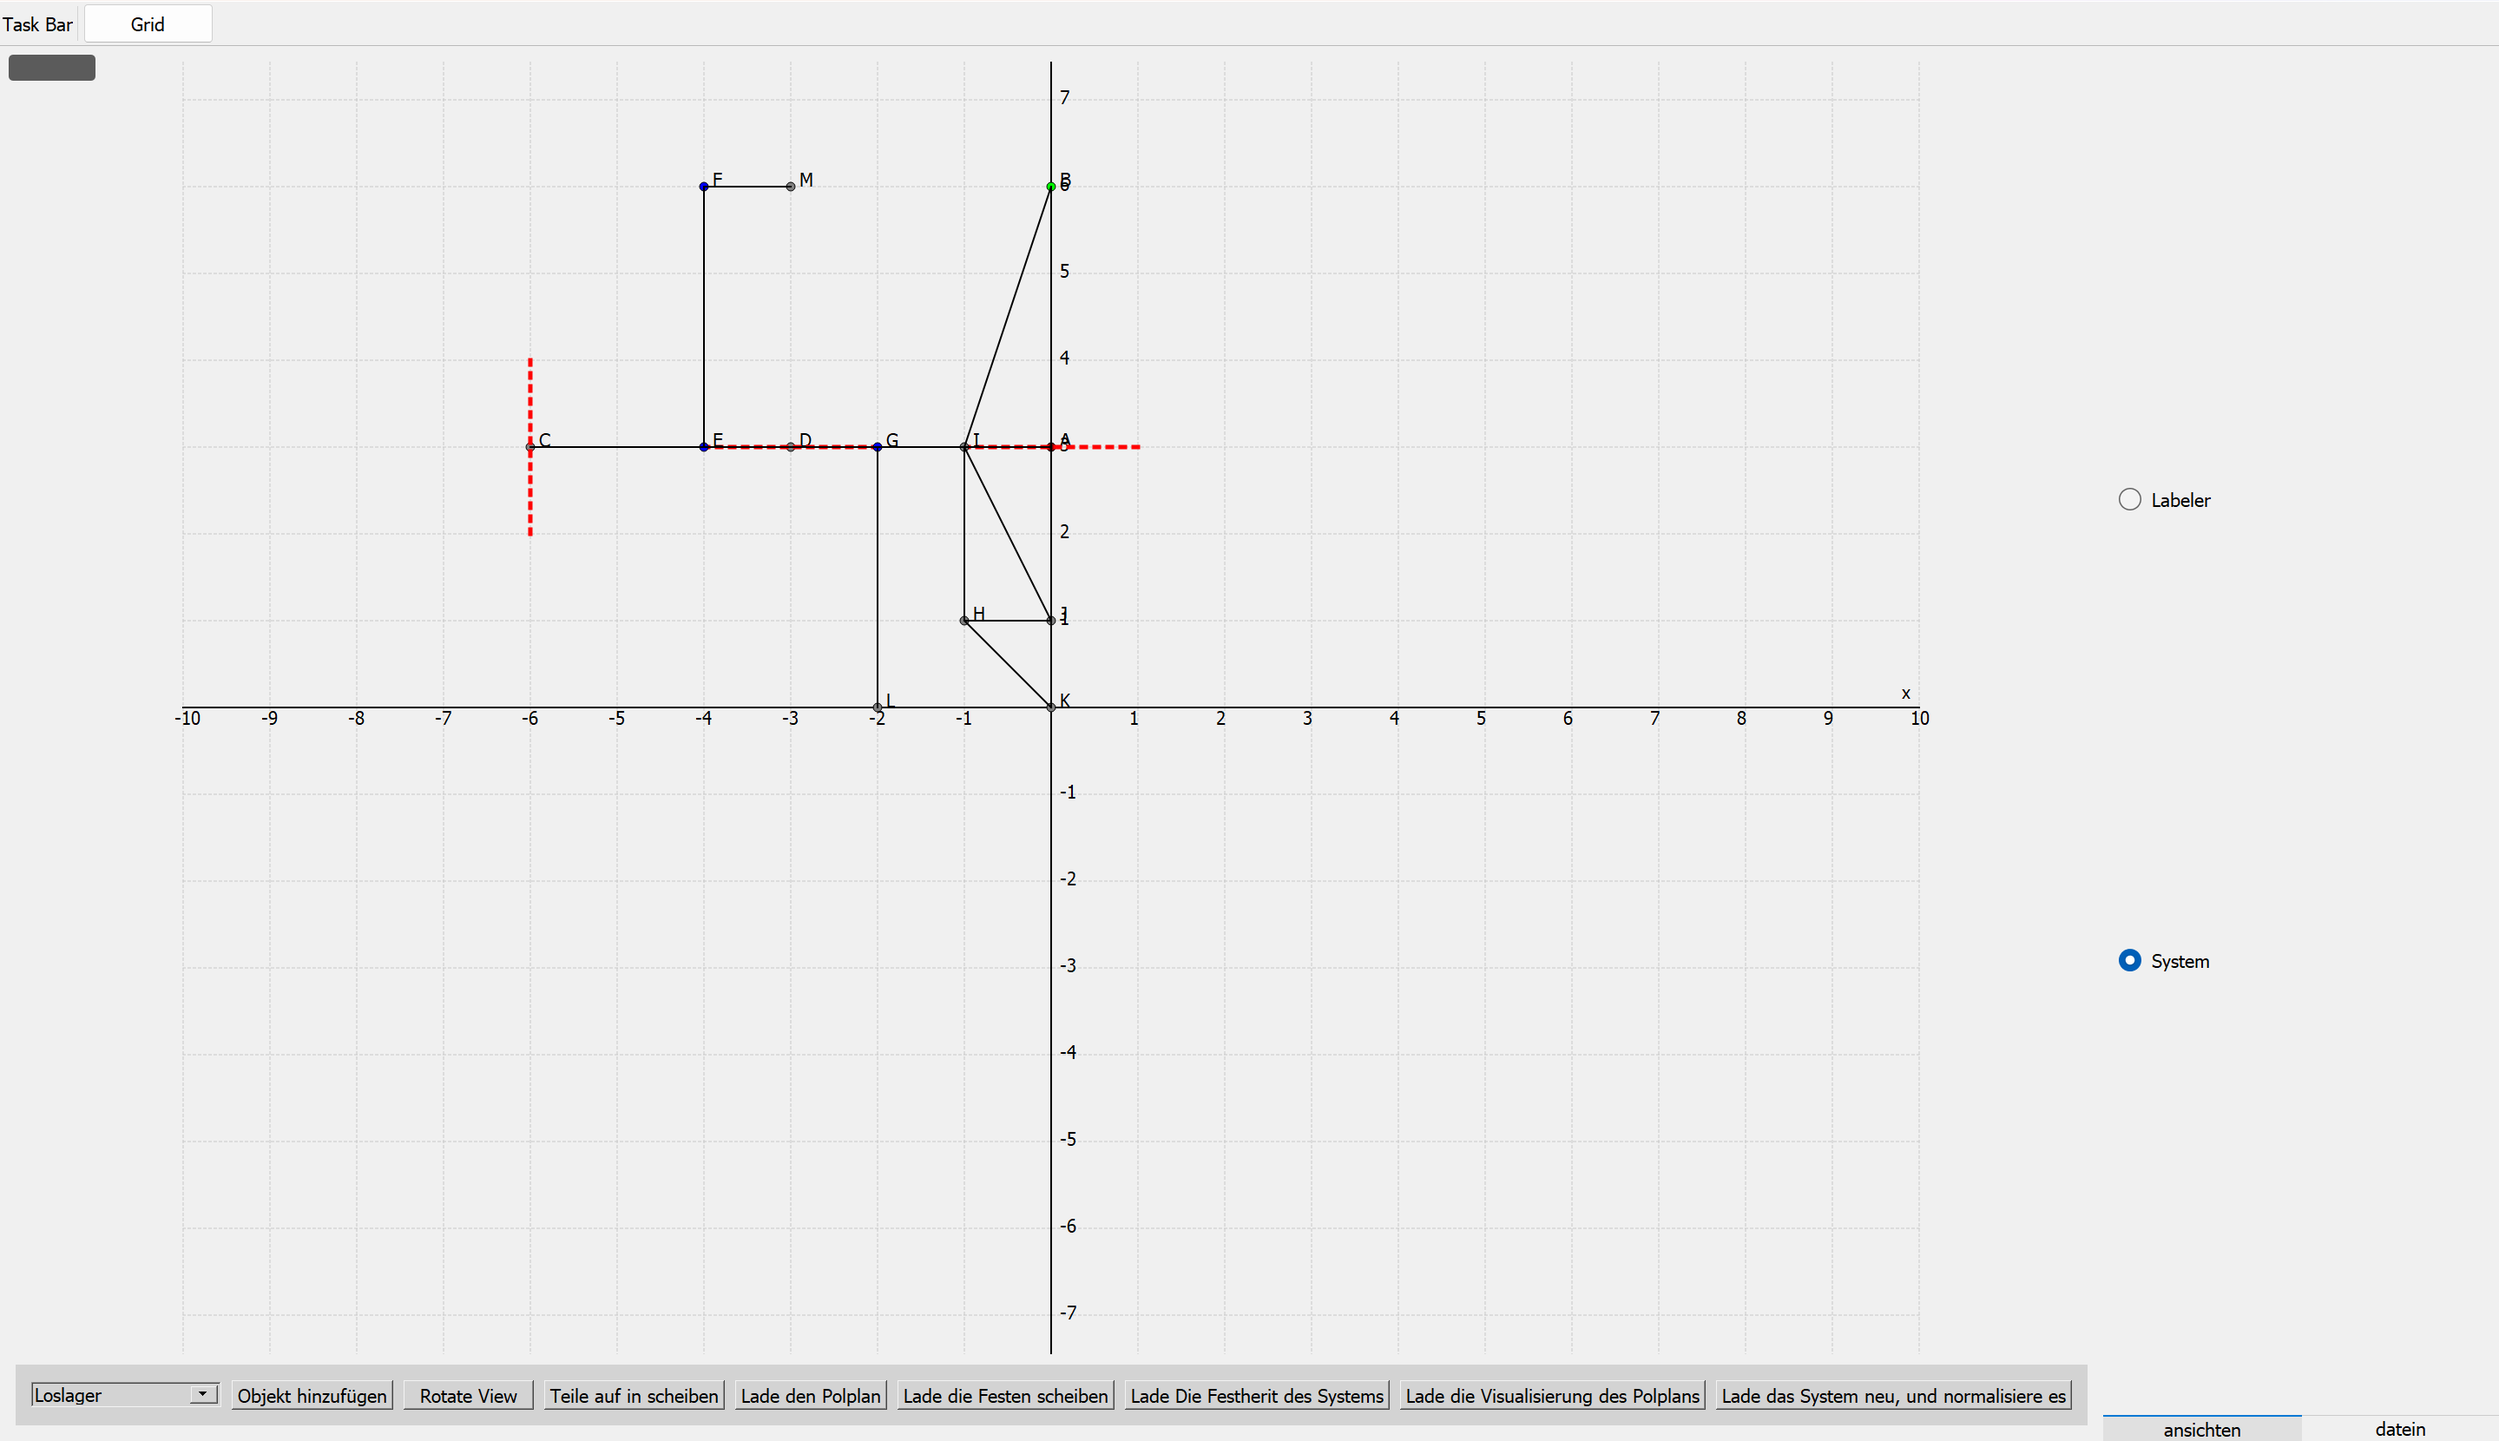
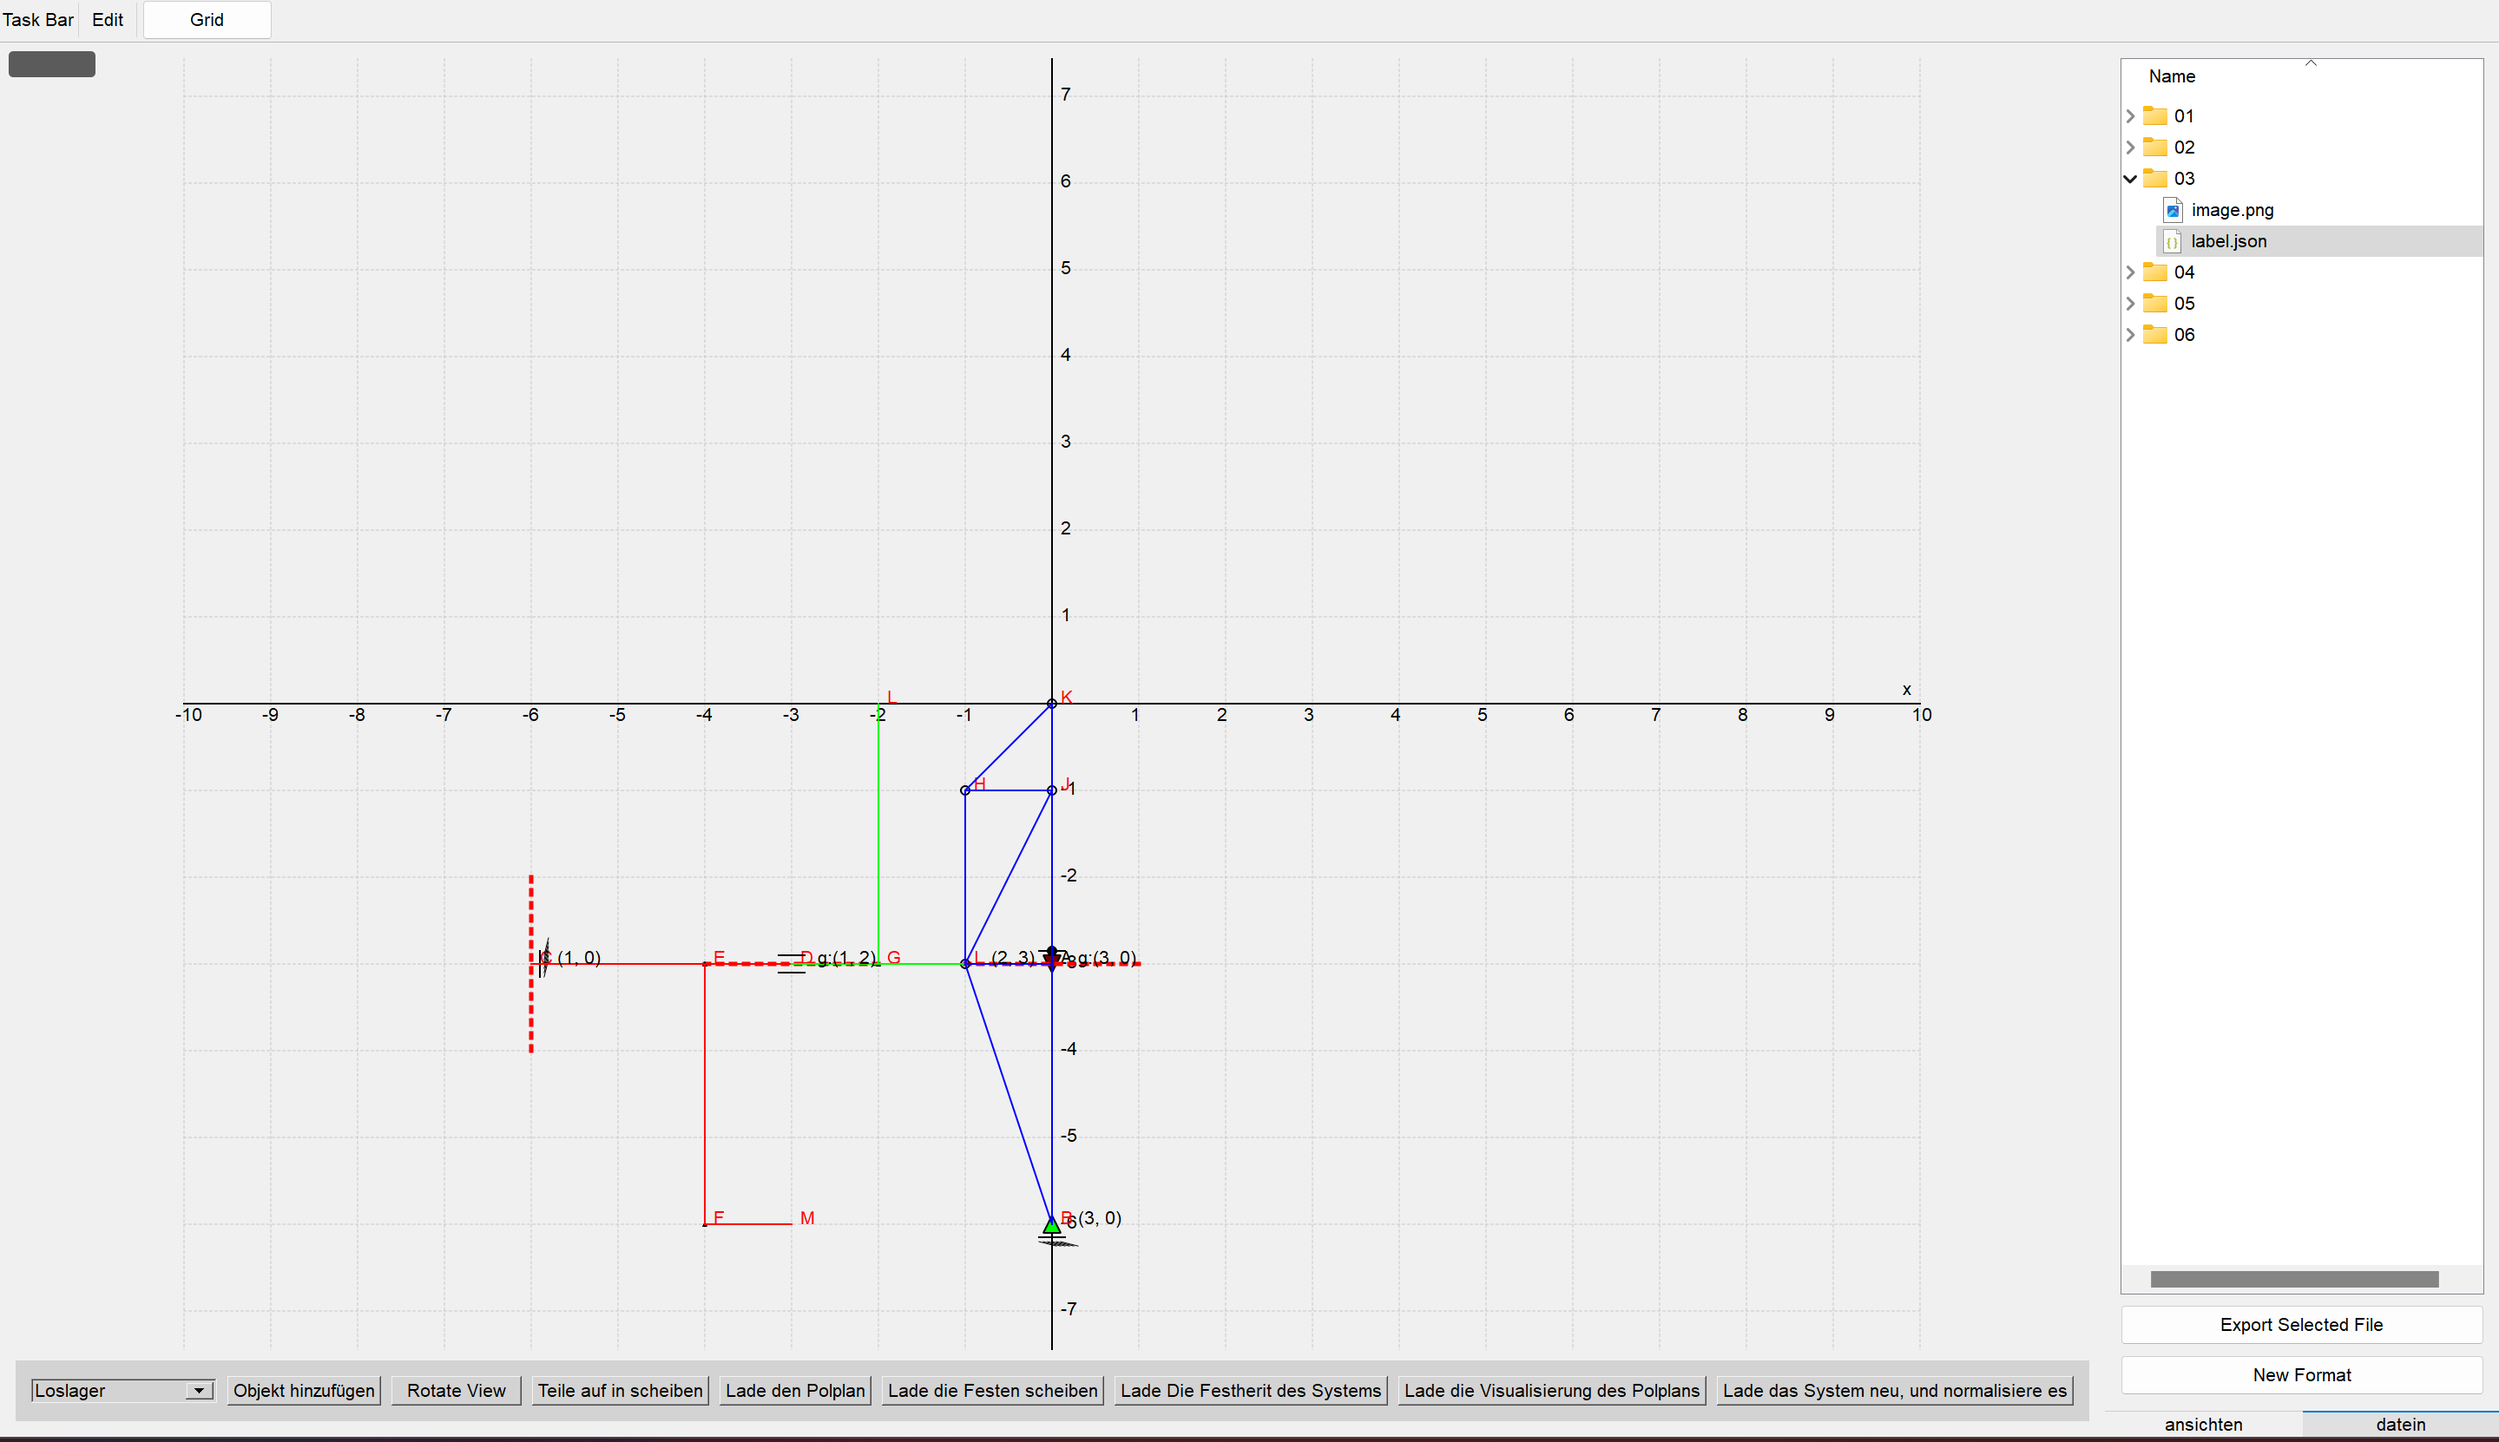
added draw pole

diff --git a/src/GUIs/SystemDrawer.py b/src/GUIs/SystemDrawer.py
@@ -65,9 +65,12 @@ class ObjectPainter(QWidget):
     def init_variables(self):
         data = self.shared_data.get_normalized_system()
         self.objects, self.connections = data.get('normalized_objects',{}), data.get('normalized_connections',[])
-        self.feste_nodes = []
+        self.feste_nodes = []    ### DELETE THIS BECAUSE OBSULET du kek
 
         self.update()
+    def init_scheiben_variables(self):
+        if self.scheiben_data:
+            self.scheiben_colors = self.generate_n_colors(len(self.scheiben_data['scheiben']))
     
     def initUI(self):
         self.setGeometry(100, 100, 600, 600)
@@ -99,6 +102,7 @@ class ObjectPainter(QWidget):
 
         self.drawObjects(qp)
         self.drawConnections(qp)
+        self.drawPole(qp)               # maybew here if is iocer
 
         self.drawPreview(qp)
 
@@ -221,10 +225,19 @@ class ObjectPainter(QWidget):
     def drawConnections(self, qp):
         if self.connections:
             for (p1, p2), conn in self.connections.items():
+                #print(f'Connection: {conn}')   # Conn ist data von connection
                 
-                # Check if Conenction is scheiben conenction
-                if p1 in self.feste_nodes and p2 in self.feste_nodes:
-                    qp.setPen(QPen(Qt.red, 2, Qt.SolidLine))  # Red lines for connections in 'scheiben'
+                # Get the scheibe of the connection
+                matching_element = None
+                if self.scheiben_data:
+                    for key, value in self.scheiben_data['scheiben'].items():
+                        if set([p1,p2]).issubset(value['nodes']):
+                            matching_element = key  #  könnte besser sein
+                            break
+                
+
+                if matching_element:
+                    qp.setPen(QPen(self.scheiben_colors[int(key)-1], 2, Qt.SolidLine))  # Red lines for connections in 'scheiben'
                 else:
                     qp.setPen(QPen(Qt.black, 2, Qt.SolidLine))  # Black for other connections
 
@@ -307,9 +320,30 @@ class ObjectPainter(QWidget):
         qp.drawLine(QPoint(0, 0), QPoint(-arrow_size, arrow_size / 2))
         qp.restore()
 
+    def drawPole(self, qp):
+        if self.pol_data:
+            pol_list = {}
+            qp.setPen(QPen(Qt.black, 2, Qt.SolidLine))
+            
+            # Track coordinate duplicates
+            coord_counts = {}      
+            for key, value in self.pol_data['pole'].items():
+                pol_list[key] = []
+                for i, pol in enumerate(value):
+                    (x,y) = self.objects[pol['node']]['coordinates']
+                    x = x * self.scale_factor + self.width() // 2
+                    y = -y * self.scale_factor + self.height() // 2
+                    coord = (x, y)
+                    coord_counts[coord] = coord_counts.get(coord, 0) + 1
+                    vertical_offset = 20 * (coord_counts[coord] - 1)
+
+                    display_text = f'g:{key}' if pol['type'] == 'WL' else f'{key}'
+                    qp.drawText(x+30, y+vertical_offset, display_text)
+
+
 
     def drawPolplan(self, qp):
-
+        
         """for weg in self.visaulization_of_poplan['weglinien']:
             x1, y1 = weg[0]
             x2, y2 = weg[1]
@@ -492,6 +526,13 @@ class ObjectPainter(QWidget):
         super().resizeEvent(event)
         # Adjust view if needed based on new size
         self.update()
+    def generate_n_colors(self,n):
+        colors = []
+        for i in range(n):
+            hue = i / n  # Evenly distribute hues between 0 and 1
+            color = QColor.fromHsvF(hue, 1.0, 1.0)  # Full saturation and value for bright colors
+            colors.append(color)
+        return colors
     
     ### Rotate stuff
     def rotate_view(self, degrees):
@@ -559,13 +600,22 @@ class ObjectPainter(QWidget):
     def load_scheiben(self):
         self.init_variables()
         if self.connections and self.objects:
-            self.scheiben_data = get_scheiben(self.connections, self.objects)
-            print(f'Scheiben_data: {self.scheiben_data["scheiben"]}')
+            if all(isinstance(value, dict) and 'connections' in value for value in self.objects.values()):
+                self.scheiben_data = get_scheiben(self.connections, self.objects)
+                self.init_scheiben_variables()
+                self.update()
+            else:
+                QMessageBox.warning(None, "Error", "Du hast den neuen Datetyp noch nicht inited!!")
+
+
     def load_pol_data(self):
-        self.load_scheiben()
+        if not self.scheiben_data:
+            self.load_scheiben()
+
         if self.objects and self.scheiben_data:
             self.pol_data = get_all_pole(self.objects, self.scheiben_data['scheiben'], self.scheiben_data['scheiben_connection']) 
-            print(f'Pol_data: {self.pol_data}')
+            #print(f'Pol_data: {self.pol_data}')
+
     def load_feste_scheiben(self):
         self.load_pol_data()
         if self.pol_data and self.objects:
@@ -589,14 +639,15 @@ class ObjectPainter(QWidget):
         self.load_feste_scheiben()
         if self.static_data_of_scheiben and self.pol_data and self.objects:
             self.static_of_system = check_static_of_system(self.static_data_of_scheiben, self.pol_data['pole'], self.objects)
-            raise NotImplementedError("Du Kek das ist noch nicht Implementiert!!")
+            #raise NotImplementedError("Du Kek das ist noch nicht Implementiert!!")
+            QMessageBox.warning(None, "Error", f"Du Kek das ist noch nicht Implementiert!!")
  
 
-    def get_feste_scheiben_nodes(self):
-        if self.static_information:
-            for key,e in self.static_information.items():
-                if e['static'] == True:
-                    self.feste_nodes.extend(self.scheiben['scheiben'][key]['nodes'])
+    #def get_feste_scheiben_nodes(self):
+    #    if self.static_information:
+    #        for key,e in self.static_information.items():
+    #            if e['static'] == True:
+    #                self.feste_nodes.extend(self.scheiben['scheiben'][key]['nodes'])
     
     ### Drawer Debug InfoMenu
     def create_drawer_menu(self):

diff --git a/src/statik/scheiben_detection.py b/src/statik/scheiben_detection.py
@@ -31,14 +31,15 @@ def detect_scheiben(connections, objects, initial_scheiben=None):
     def find_triangles():
         triangles = []
         for node in graph:
-            neighbors = list(graph[node].keys())
-            for i in range(len(neighbors)):
-                for j in range(i + 1, len(neighbors)):
-                    # Check if the two neighbors are also connected
-                    if neighbors[j] in graph[neighbors[i]]:
-                        triangle = {node, neighbors[i], neighbors[j]}
-                        triangles.append(triangle)
+            neighbors = list(graph[node]['neighbors'])
+            for i, first_neighbor in enumerate(neighbors):
+                for j, second_neighbor in enumerate(neighbors[i+1:], start=i+1):
+                    if second_neighbor in graph[first_neighbor]['neighbors']:
+                        triangle = {node, first_neighbor, second_neighbor}
+                        if triangle not in triangles:
+                            triangles.append(triangle)
         return triangles
+    
     def expand_scheibe(scheibe, processed_nodes):
         expanded = True
         while expanded:
@@ -86,9 +87,8 @@ def detect_scheiben(connections, objects, initial_scheiben=None):
     
     # Modify isolated nodes handling
     isolated_nodes = all_nodes - nodes_in_scheiben
-    print('DEBUG isolated_nodes', isolated_nodes)
     isolated_graph = {node: graph[node] for node in isolated_nodes}
-    print('DEBUG isolated_graph', isolated_graph)
+
     # Create scheiben for isolated nodes by adding their neighbors
     isolated_scheiben = get_scheiben_from_lonely_nodes(isolated_graph)
     expa_scheiben.extend([set(_) for _ in isolated_scheiben])

diff --git a/src/statik/scheiben.py b/src/statik/scheiben.py
@@ -67,10 +67,8 @@ def categories_connection_nodes(conenctions, objects):
             feste_connection.append((n1, n2))   
         if n1 in [_['to'] for _ in objects[n2]['connections'] if _['type'] == 'fest']:
             feste_connection.append((n2, n1))
-    print('DEBUG feste_connection', feste_connection)
     # Connect overlapping elements
     through_fest_connection_verbundene_scheiben = connect_overlapping_elements(feste_connection, objects)
-    print('DEBUG WICHTIG HIER GLAUBE', through_fest_connection_verbundene_scheiben)
     ## Get the Scheiben
     through_graph_detected_scheiben = detect_scheiben(conenctions, objects, initial_scheiben=through_fest_connection_verbundene_scheiben)
     return through_graph_detected_scheiben['final_scheiben']

diff --git a/src/normalize_system.py b/src/normalize_system.py
@@ -152,7 +152,7 @@ def analyze_connections(connections, objects):
         normalized_objects[obj_id] = {
             'coordinates': (
                 normalize_coordinate(x, origin_x, base_length),
-                normalize_coordinate(y, origin_y, base_length)
+                - normalize_coordinate(y, origin_y, base_length)    # Negate y-coordinate to match the coordinate system
             ),
             'type': obj_data['type'],
             'rotation': normalize_angle(obj_data['rotation'], common_angle_axis1) if 'rotation' in obj_data and obj_data['rotation'] != None else None,

diff --git a/src/statik/scan_pole.py b/src/statik/scan_pole.py
@@ -128,8 +128,6 @@ def get_all_pole(objects, scheiben, scheiben_connection):
 
     #bind_pole = get_bind_pole(main_pole)     # Bind pole are the not trivial poles that comec from combination of two poles 
     pole =  combine_pole(main_pole,scheiben_connection)   # """ Was this pole =  combine_pole(main_pole,bind_pole,scheiben_connection)!!!
-    print('pole',pole)
-    print('pole_of_scheiben',pole_of_scheiben)
     return {
         'pole_of_scheiben':pole_of_scheiben,
         'pole': pole

diff --git a/src/GUIs/CustomeWidgets/lager_drawer.py b/src/GUIs/CustomeWidgets/lager_drawer.py
@@ -22,9 +22,8 @@ def translateAndRotate(qp, x, y, rotation):
     # Translate and rotate for the Festlager
     qp.translate(x, y)                        
     if rotation:
-        qp.rotate(rotation + 180)##########!!! VERY SCUFFED
-    else:
-        qp.rotate(180)##########!!! VERY SCUFFED
+        qp.rotate(rotation)
+
 def drawLoslager(qp, x, y, rotation):
     qp.save()
     # Translate and rotate for the Loslager
